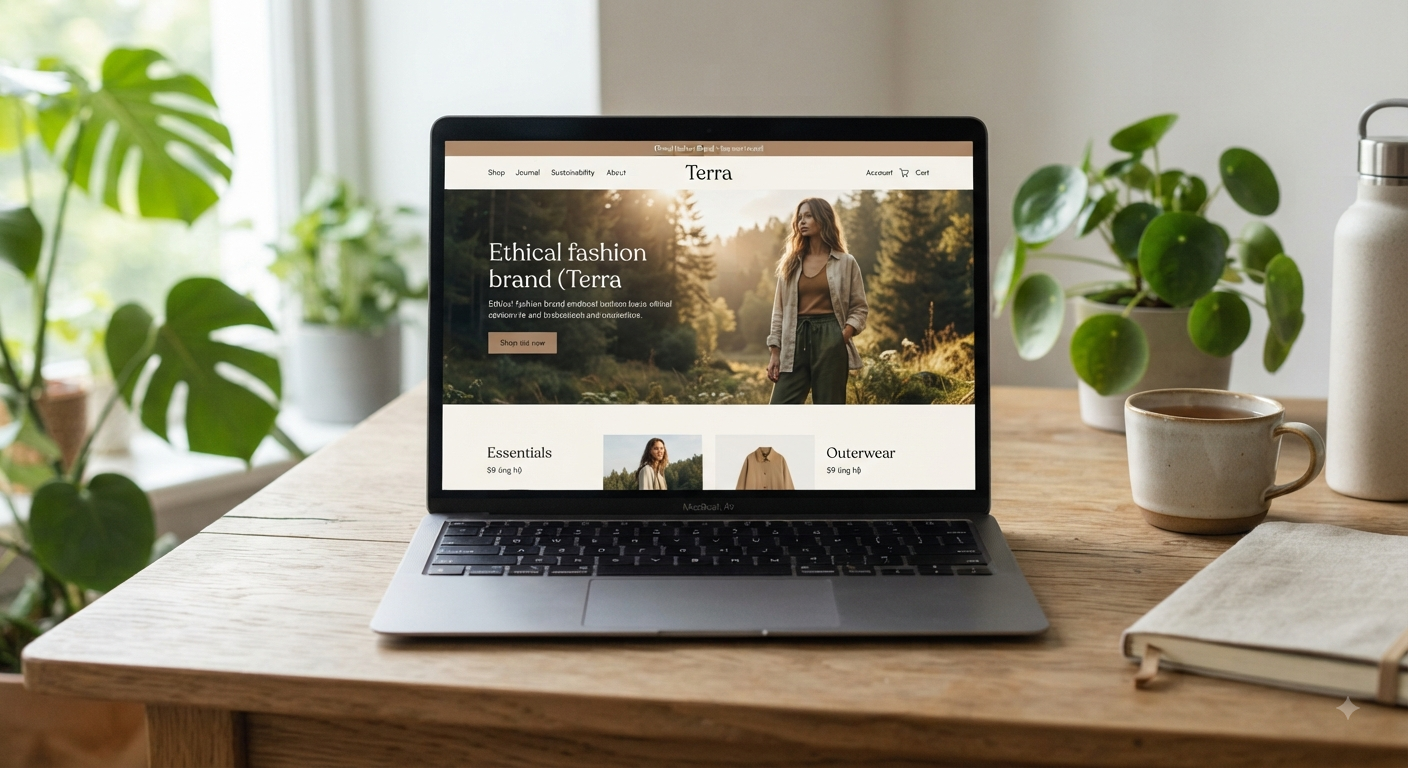
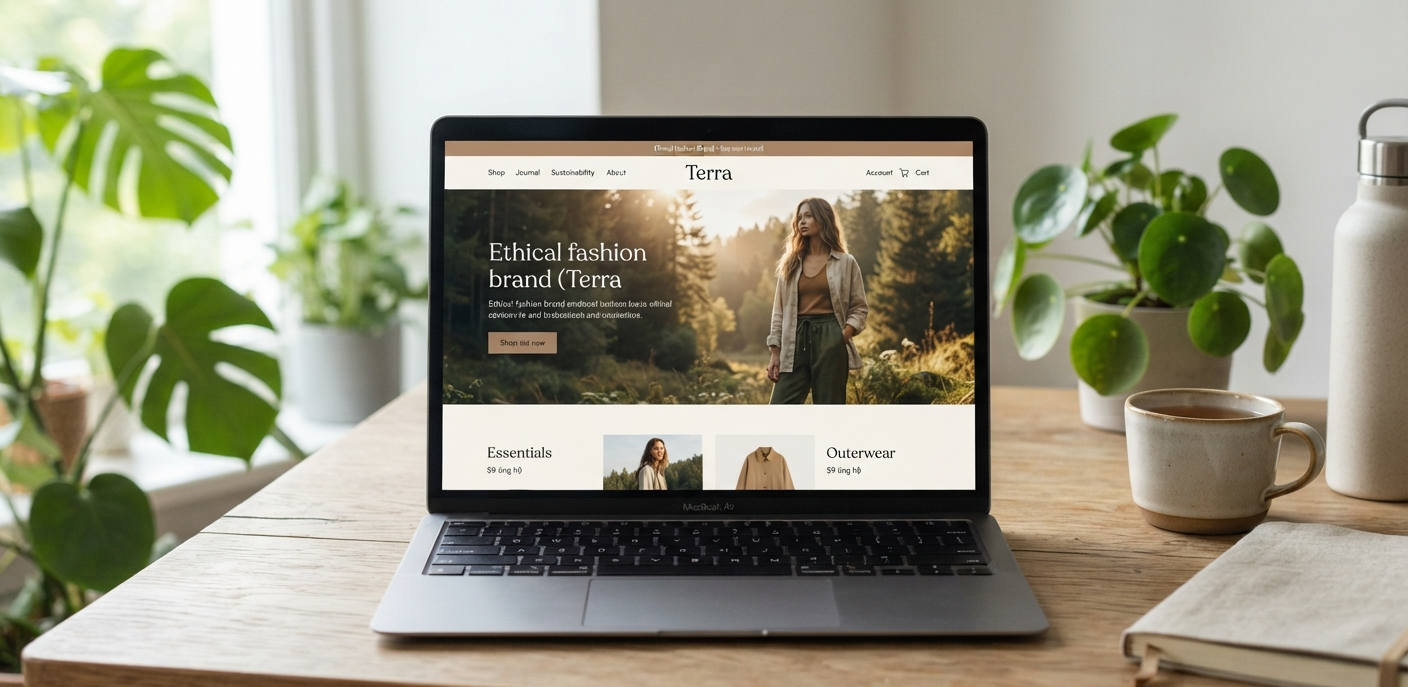
Mise à jour des liens des réseaux sociaux

diff --git a/index.html b/index.html
@@ -87,7 +87,7 @@
   </main>
 
   <a class="whatsapp-float" href="https://wa.me/243972010300" target="_blank" rel="noopener" aria-label="Discuter sur WhatsApp"><i class="fa-brands fa-whatsapp"></i><span>WhatsApp</span></a>
-  <footer class="site-footer"><div class="container footer-grid"><div><a class="brand footer-brand" href="#accueil"><img class="brand-logo" src="IMAGES/BLANC.png" alt="Logo Henock Ami"><span>HENOCK <b>AMI</b></span></a><p>Des solutions web pensées pour votre activité.</p></div><div><h3>Navigation</h3><a href="#accueil">Accueil</a><a href="#apropos">À propos</a><a href="#services">Services</a><a href="#projets">Projets</a><a href="#contact">Contact</a></div><div><h3>Réseaux</h3><a href="https://github.com/henockspeech-hash" target="_blank" rel="noopener">GitHub</a><a href="#accueil">LinkedIn</a><a href="#accueil">Facebook</a><a href="#accueil">Instagram</a><a href="#accueil">TikTok</a><a href="https://wa.me/243972010300" target="_blank" rel="noopener">WhatsApp</a></div></div><div class="container footer-bottom"><span>© 2026 Henock Ami. Tous droits réservés.</span><span>Conçu & développé par Henock Ami.</span></div></footer>
+  <footer class="site-footer"><div class="container footer-grid"><div><a class="brand footer-brand" href="#accueil"><img class="brand-logo" src="IMAGES/BLANC.png" alt="Logo Henock Ami"><span>HENOCK <b>AMI</b></span></a><p>Des solutions web pensées pour votre activité.</p></div><div><h3>Navigation</h3><a href="#accueil">Accueil</a><a href="#apropos">À propos</a><a href="#services">Services</a><a href="#projets">Projets</a><a href="#contact">Contact</a></div><div><h3>Réseaux</h3><a href="https://github.com/henockspeech-hash" target="_blank" rel="noopener">GitHub</a><a href="https://www.linkedin.com/in/henock-ami-bb5687317?utm_source=share_via&utm_content=profile&utm_medium=member_android" target="_blank" rel="noopener">LinkedIn</a><a href="https://www.facebook.com/share/1cwhTpaE8g/" target="_blank" rel="noopener">Facebook</a><a href="https://www.instagram.com/henock_ami_officiel?utm_source=qr&obrf=MW41Mnk4ZG9mOXA0dg%3D%3D" target="_blank" rel="noopener">Instagram</a><a href="https://www.tiktok.com/@henockamileh?_r=1&_t=ZS-9BTbyyJ3wTF" target="_blank" rel="noopener">TikTok</a><a href="https://wa.me/243972010300" target="_blank" rel="noopener">WhatsApp</a></div></div><div class="container footer-bottom"><span>© 2026 Henock Ami. Tous droits réservés.</span><span>Conçu & développé par Henock Ami.</span></div></footer>
   <script src="script.js"></script>
 </body>
 </html>
